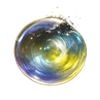
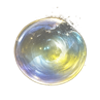
анимация лопания шарика

diff --git a/lib/data/flame/components/circle_bounce.dart b/lib/data/flame/components/circle_bounce.dart
@@ -23,14 +23,20 @@ class CircleBounce extends BodyComponent
 
   final double maxAngularVelocity = 3.0;
 
-  static const int burstTapCount = 5;
+  static const int burstTapCount = 3;
   static const int burstFrameCount = 5;
-  static const double burstStepTime = 0.015;
+  static const double burstStepTime = 0.026;
+
+  static const double burstHoldSeconds = 2.0;
   int _tapCount = 0;
   bool _isBursting = false;
   late final SpriteAnimation _burstAnimation;
 
   double get hitRadius => radius * 0.75;
+
+  double _holdSeconds = 0;
+  Offset? _lastPointerGlobalPos;
+  bool _isPointerDown = false;
 
 
   CircleBounce({
@@ -72,20 +78,26 @@ class CircleBounce extends BodyComponent
 
     // debugMode = true;
     Get.find<CursorPositionService>().cursorPositionStream.listen((globalPos) {
+      _lastPointerGlobalPos = globalPos;
       applyOppositeForce(globalPos);
     });
 
     Get.find<CursorPositionService>().pointerDownStream.listen((globalPos) {
+      _isPointerDown = true;
+      _lastPointerGlobalPos = globalPos;
       _handlePointerDown(globalPos);
+    });
+
+    Get.find<CursorPositionService>().pointerUpStream.listen((_) {
+      _isPointerDown = false;
+      // Если это был touch, то “палец на шарике” закончился.
+      _holdSeconds = 0;
     });
     return super.onLoad();
   }
 
   void _handlePointerDown(Offset globalPos) {
     if (_isBursting) return;
-
-    // ignore: avoid_print
-    print('CircleBounce _handlePointerDown');
 
     // Проверяем попадание по “видимому” радиусу, а координаты берём в
     // общем (global) пространстве Flutter/Flame, как и для курсора.
@@ -102,8 +114,7 @@ class CircleBounce extends BodyComponent
 
   void _startBurst() {
     _isBursting = true;
-    // ignore: avoid_print
-    print('CircleBounce: BURST');
+    _holdSeconds = 0;
 
     final currentAngle = body.angle;
 
@@ -147,6 +158,29 @@ class CircleBounce extends BodyComponent
       body.angularVelocity = 0;
       super.update(dt);
       return;
+    }
+
+    // Лопаем шарик, если курсор/палец удерживаются на нём 3 секунды.
+    // Для touch учитываем только пока палец зажат (pointerDown).
+    final pos = _lastPointerGlobalPos;
+    if (pos != null) {
+      final cursorPos = camera.globalToLocal(pos.toVector2());
+      final isOver = (cursorPos - position).length2 <= hitRadius * hitRadius;
+
+      // Desktop: считаем удержание по hover (даже без нажатия).
+      // Touch: считаем удержание, пока палец нажат.
+      final shouldCountHold = isOver && (GetPlatform.isDesktop || _isPointerDown);
+
+      if (shouldCountHold) {
+        _holdSeconds += dt;
+        if (_holdSeconds >= burstHoldSeconds) {
+          _startBurst();
+        }
+      } else {
+        _holdSeconds = 0;
+      }
+    } else {
+      _holdSeconds = 0;
     }
 
     if (body.angularVelocity > maxAngularVelocity) {

diff --git a/lib/presentation/screen_app_bottom_navigator/my_bottom_navigator_screen.dart b/lib/presentation/screen_app_bottom_navigator/my_bottom_navigator_screen.dart
@@ -44,9 +44,11 @@ class CursorPointerListenerWidget extends StatelessWidget {
   }
 
   void _updatePointerDown(Offset position) {
-    // ignore: avoid_print
-    print('CursorPointerListenerWidget onPointerDown: $position');
     Get.find<CursorPositionService>().updatePointerDown(position);
+  }
+
+  void _notifyPointerUp() {
+    Get.find<CursorPositionService>().notifyPointerUp();
   }
 
   @override
@@ -59,6 +61,8 @@ class CursorPointerListenerWidget extends StatelessWidget {
         _updateCursorPosition(event.position);
       },
       onPointerMove: (event) => _updateCursorPosition(event.position),
+      onPointerUp: (_) => _notifyPointerUp(),
+      onPointerCancel: (_) => _notifyPointerUp(),
       child: child,
     );
   }
@@ -74,9 +78,11 @@ class MyScreenBoxDecorationWidget extends StatelessWidget {
   }
 
   void _updatePointerDown(Offset position) {
-    // ignore: avoid_print
-    print('MyScreenBoxDecorationWidget onPointerDown: $position');
     Get.find<CursorPositionService>().updatePointerDown(position);
+  }
+
+  void _notifyPointerUp() {
+    Get.find<CursorPositionService>().notifyPointerUp();
   }
 
   @override
@@ -121,6 +127,8 @@ class MyScreenBoxDecorationWidget extends StatelessWidget {
               _updateCursorPosition(event.position);
             },
             onPointerMove: (event) => _updateCursorPosition(event.position),
+            onPointerUp: (_) => _notifyPointerUp(),
+            onPointerCancel: (_) => _notifyPointerUp(),
             child: Stack(
               children: [
                 DecoratedBox(

diff --git a/lib/data/flame/hover_observer.dart b/lib/data/flame/hover_observer.dart
@@ -11,27 +11,35 @@ class CursorPositionService {
   final StreamController<Offset> _pointerDownController =
       StreamController<Offset>.broadcast();
 
+  // Отпускание/отмена касания (нужно для mobile-логики удержания).
+  final StreamController<void> _pointerUpController =
+      StreamController<void>.broadcast();
+
   Stream<Offset> get cursorPositionStream =>
       _cursorPositionController.stream.asBroadcastStream();
 
   Stream<Offset> get pointerDownStream =>
       _pointerDownController.stream.asBroadcastStream();
 
+  Stream<void> get pointerUpStream =>
+      _pointerUpController.stream.asBroadcastStream();
+
   void updateCursorPosition(Offset position) {
     _cursorPositionController.add(position);
   }
 
   void updatePointerDown(Offset position) {
-    // Для диагностики: убедимся, что onPointerDown реально приходит.
-    // Удалим/уберём после подтверждения.
-    // ignore: avoid_print
-    print('CursorPositionService.updatePointerDown: $position');
     _pointerDownController.add(position);
+  }
+
+  void notifyPointerUp() {
+    _pointerUpController.add(null);
   }
 
   // Метод для закрытия контроллера при завершении использования
   void dispose() {
     _cursorPositionController.close();
     _pointerDownController.close();
+    _pointerUpController.close();
   }
 }
